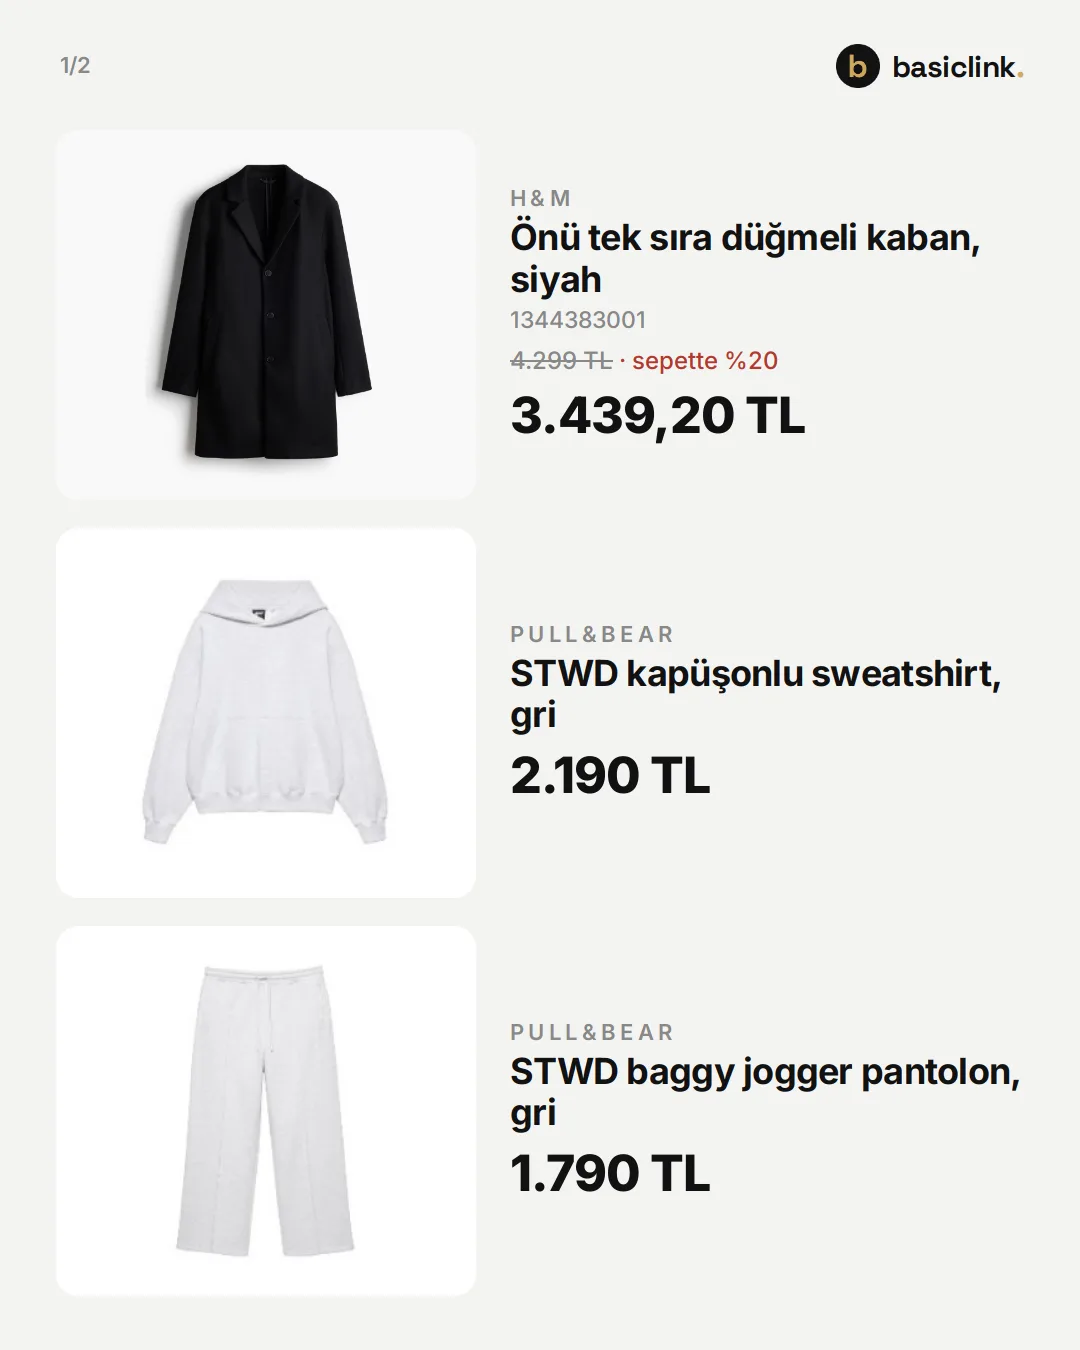
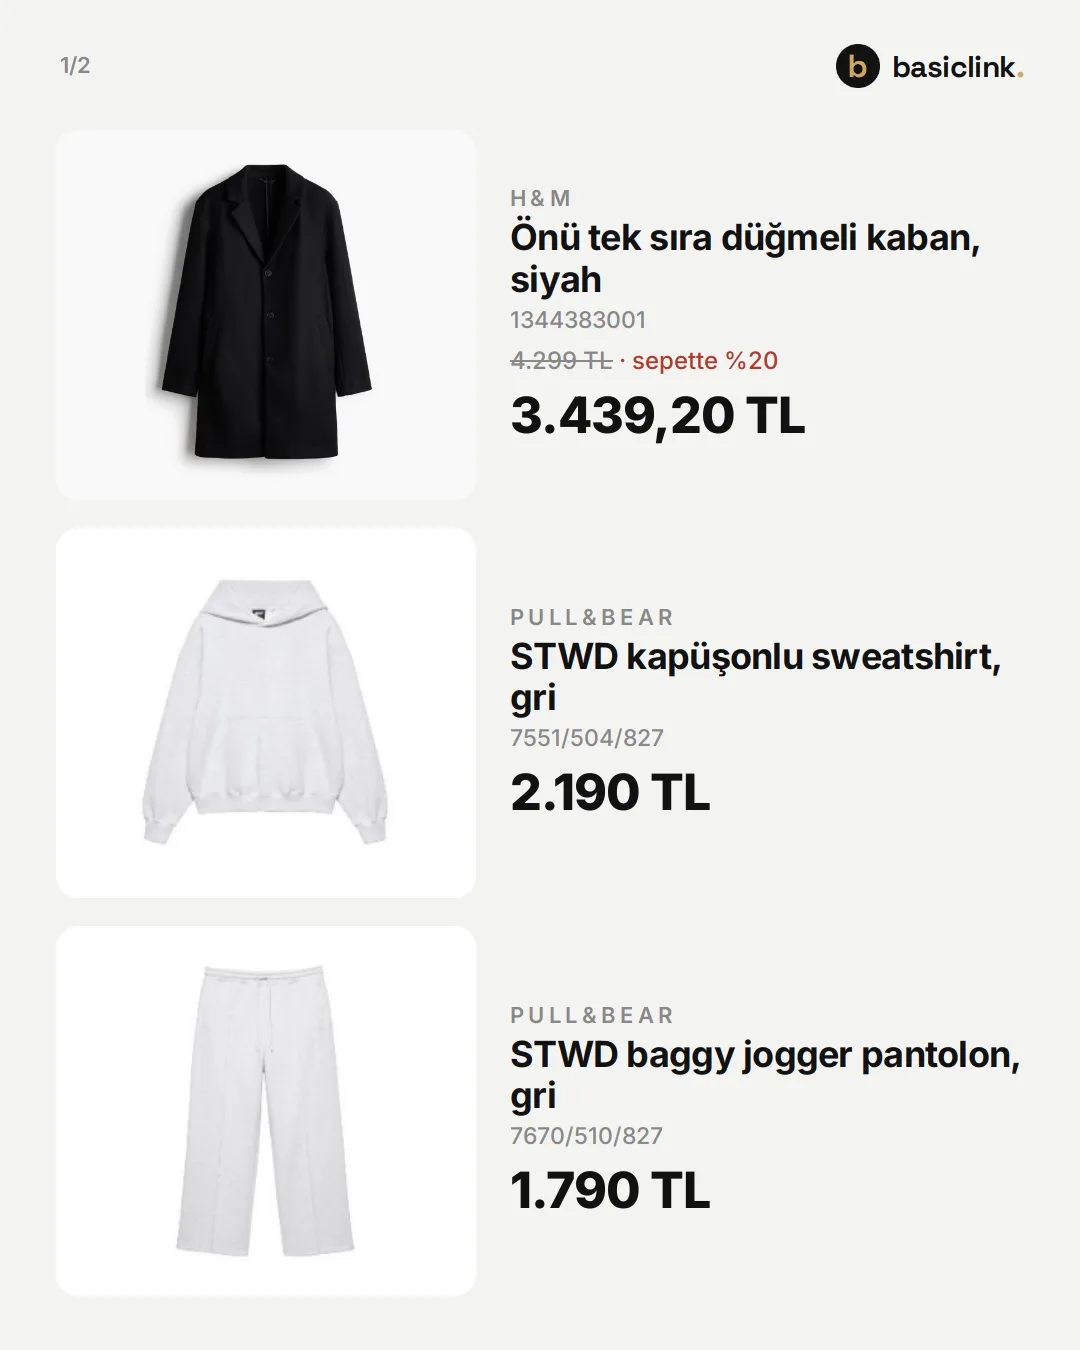
Outfit post: add Pull&Bear model codes
Claude-Session: https://claude.ai/code/session_01HdQWbhkBJ8b86f92CSrzw3

Changed region(s): [[0.4583, 0.4356, 0.9167, 0.6222], [0.4583, 0.7467, 0.9472, 0.9022]]

diff --git a/src/basiclink/spor-siyah-kaban-kombini.md b/src/basiclink/spor-siyah-kaban-kombini.md
@@ -17,11 +17,13 @@ urunler:
     link: https://www2.hm.com/tr_tr/productpage.1344383001.html
   - marka: Pull&Bear
     ad: "STWD kapüşonlu sweatshirt, gri"
+    kod: 7551/504/827
     fiyat: 2190
     gorsel: /img/insta/urun/pullandbear-stwd-kapusonlu-sweatshirt.webp
     link: https://www.pullandbear.com/tr/stili-kesfet-l91163281391BSBS?cS=827&pelement=764375849
   - marka: Pull&Bear
     ad: "STWD baggy jogger pantolon, gri"
+    kod: 7670/510/827
     fiyat: 1790
     gorsel: /img/insta/urun/pullandbear-stwd-baggy-jogger.webp
     link: https://www.pullandbear.com/tr/stili-kesfet-l91163281391BSBS?cS=827&pelement=764375849
